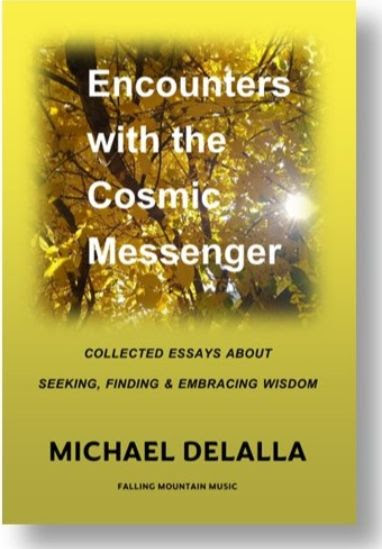
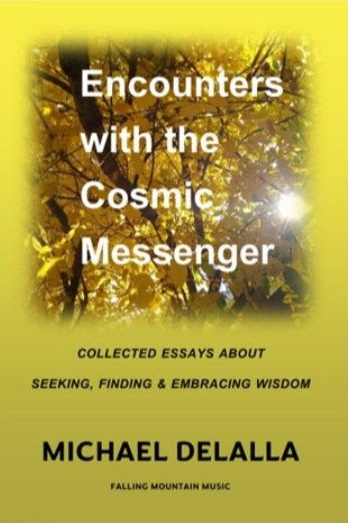
adjust image

diff --git a/_posts/2024-06-24-michael-delalla.md b/_posts/2024-06-24-michael-delalla.md
@@ -21,7 +21,8 @@ For more information about Guitarist/composer Michael DeLalla:
 * [www.fallingmountain.com ](https://www.fallingmountain.com/)
 * [www.youtube.com/@fallmtn](https://www.youtube.com/@fallmtn)
 * [www.facebook.com/michael.delalla](https://www.facebook.com/michael.delalla)  
+<br>
 
-See also ...
-![BookCover](/pics/20250425-NewDeLallaBook.jpg)
+<p><img src="/pics/20250425-NewDeLallaBook.jpg" alt="BookCover" style="margin-left: 60px;"></p>
+
 Michael's new book ["Encounters with the Cosmic Messenger"](https://store.bookbaby.com/book/encounters-with-the-cosmic-messenger) subtitled "Collected Essays about Seeking, Finding and Embracing Wisdom" is now available (April 2025).
